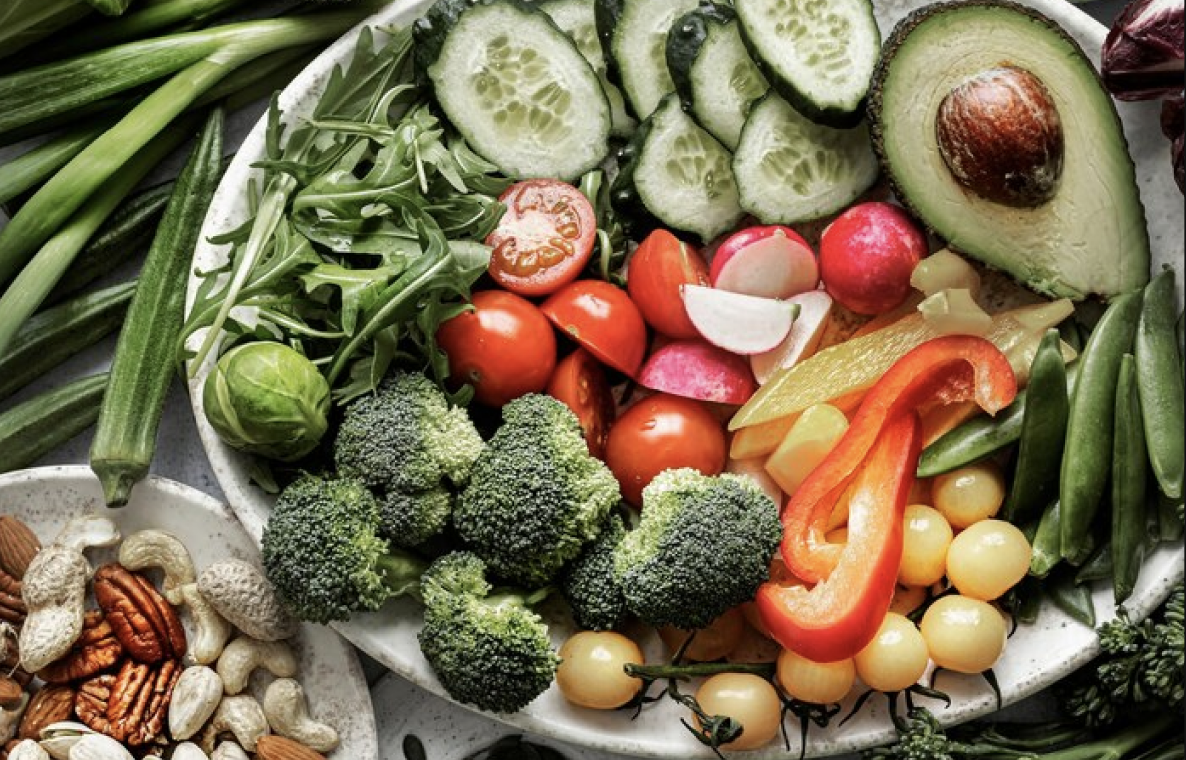
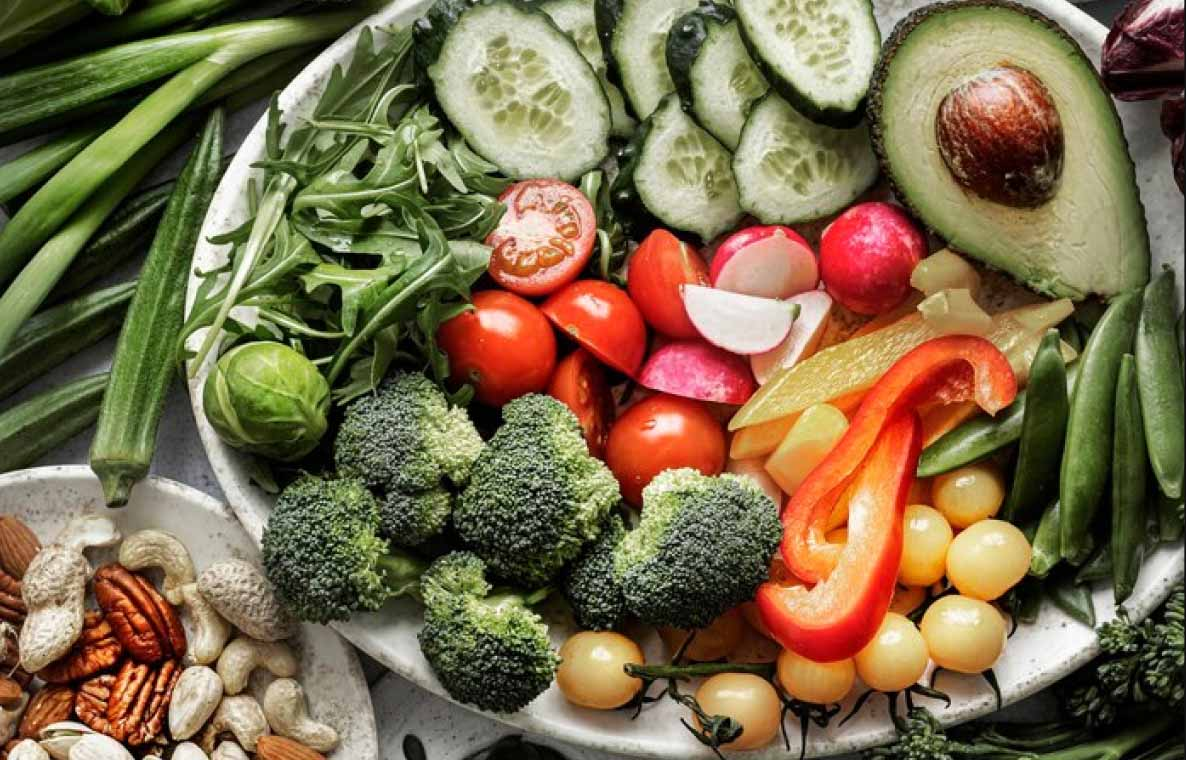
first commit

diff --git a/index.html b/index.html
@@ -79,7 +79,7 @@
 
                 <div class="todays_recipes_content_block">
                     <div class="todays_recipes_content_block_image">
-                        <img src="clip-image.png" alt="">
+                        <img src="clip-image.jpg" alt="">
                     </div>
                     <div class="todays_recipes_content_block_text">
                         <div class="todays_recipes_content_block_text_top">
